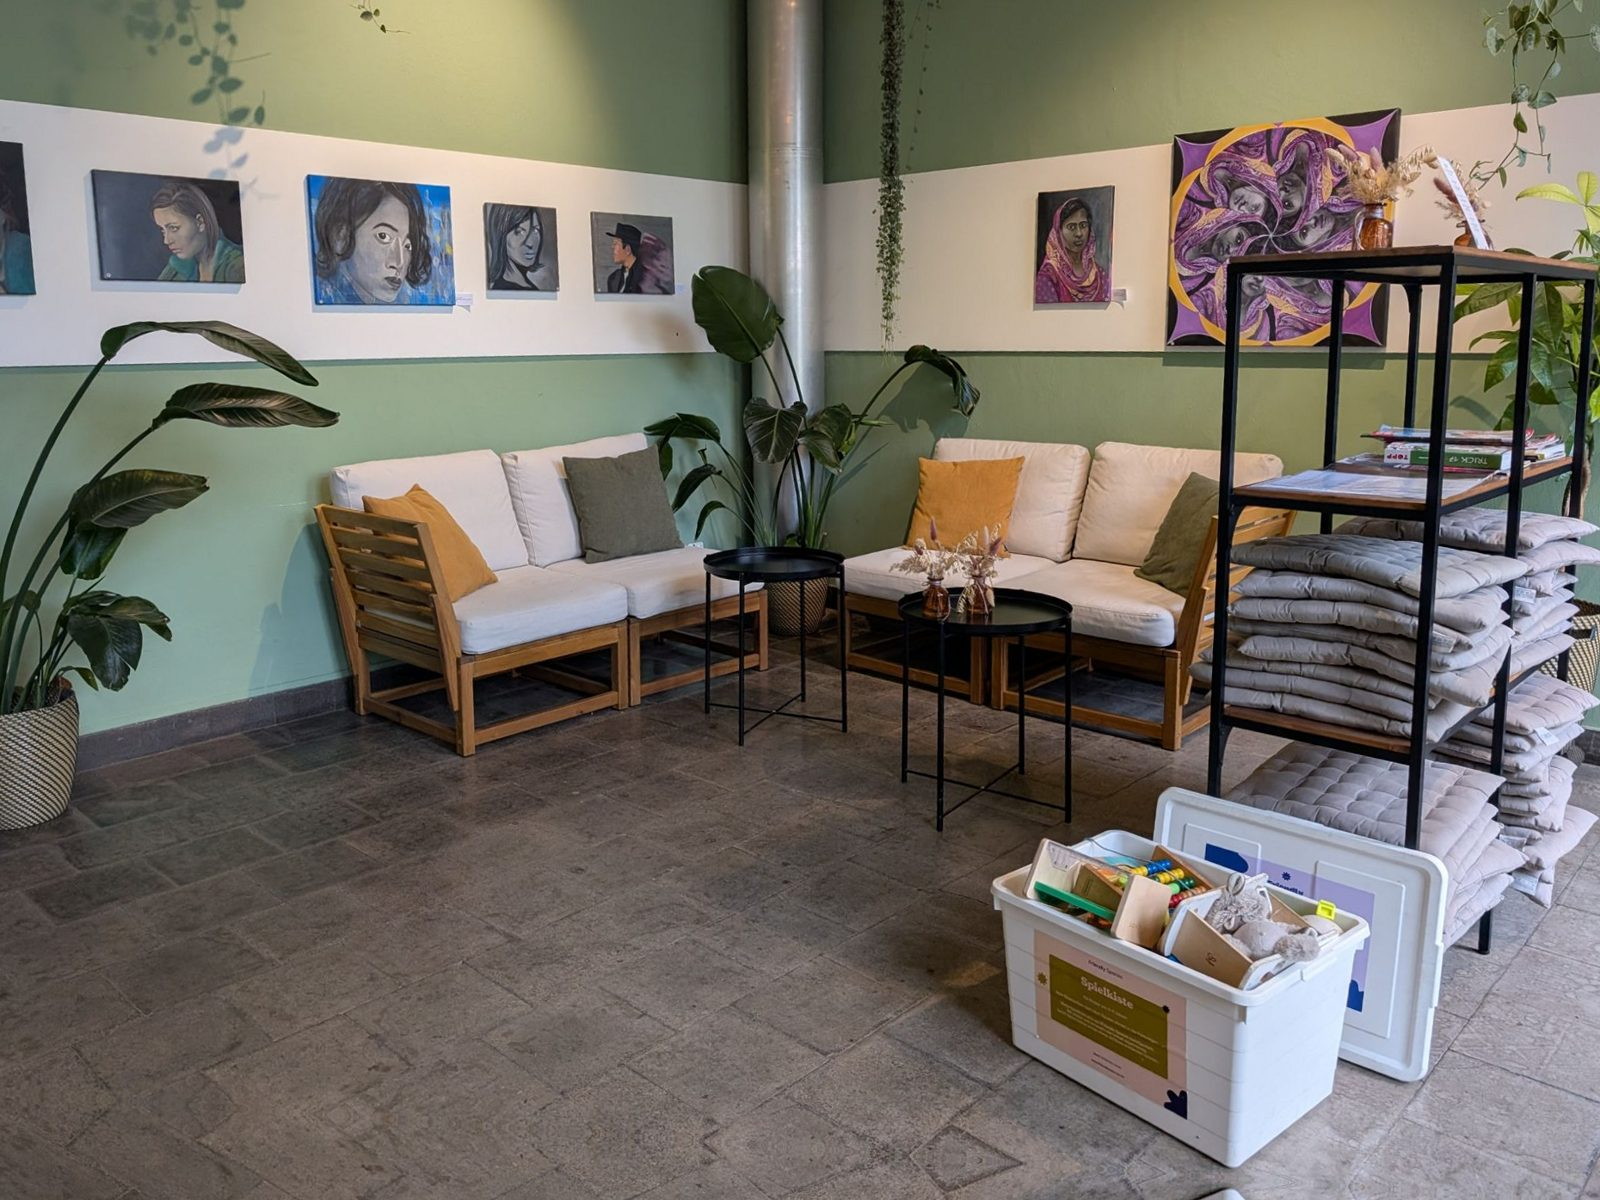
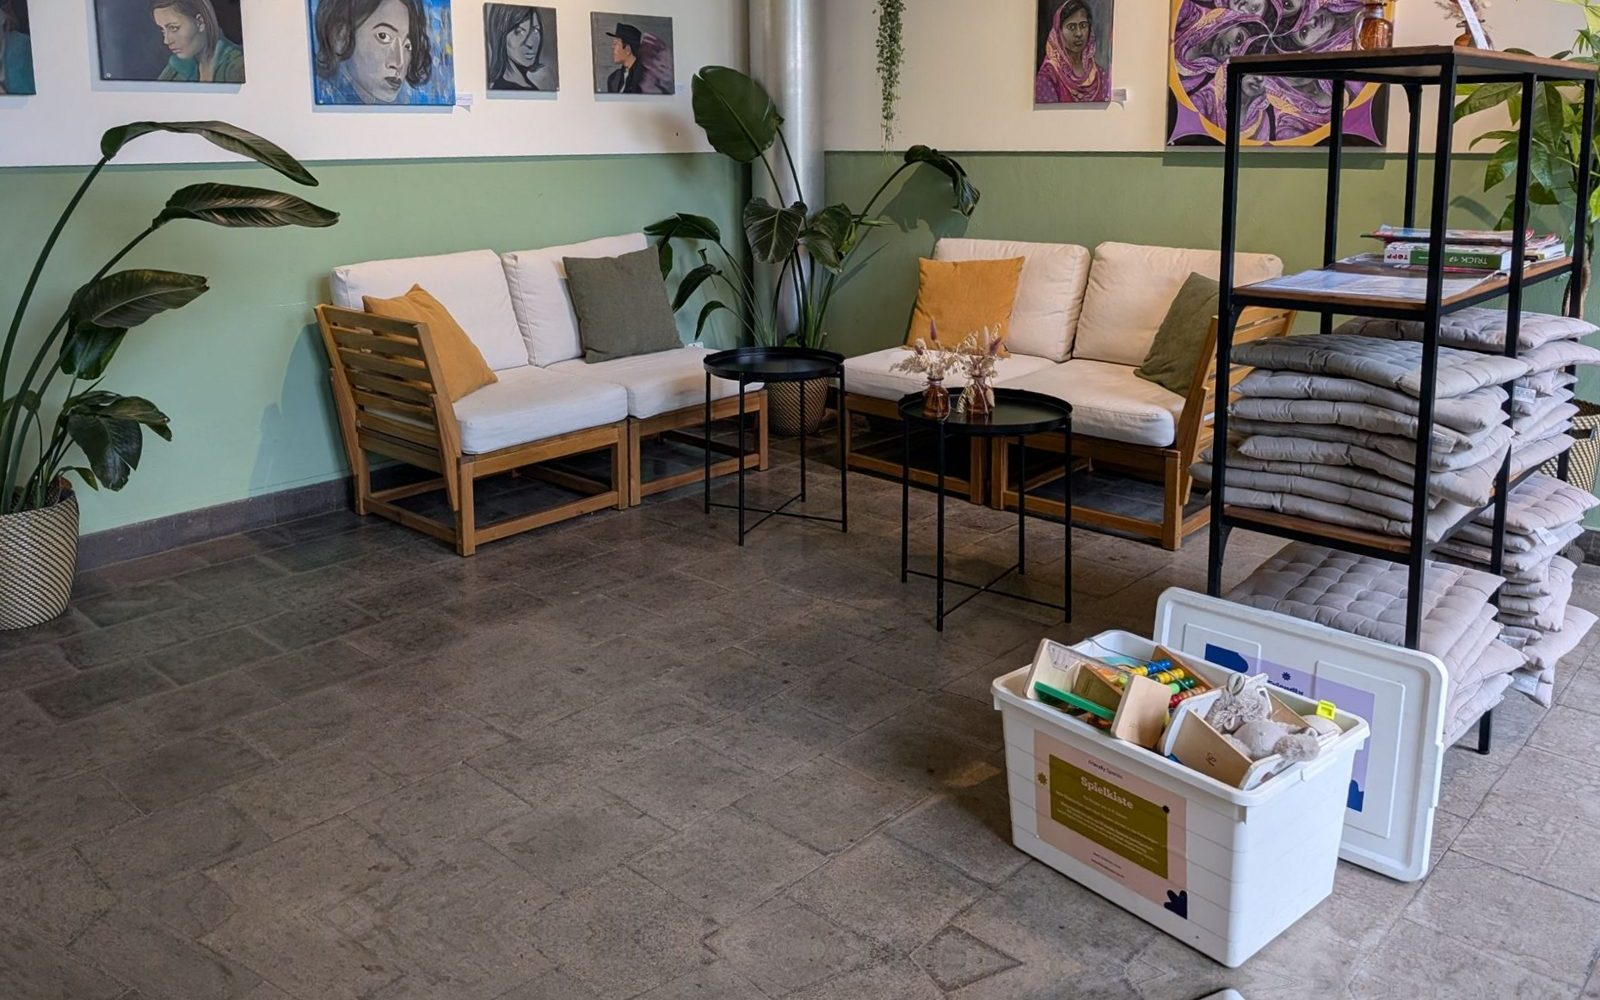
Knocking on doors: Orangerie photo trimmed from the top

diff --git a/src/pages/de/news/knocking-on-doors.html b/src/pages/de/news/knocking-on-doors.html
@@ -34,7 +34,7 @@ nav: news
   <article class="post-body">
     <div class="wrap-narrow">
       <figure>
-        <img src="/assets/img/news/orangerie-lounge-2.jpg" alt="Die Lounge der Orangerie Elfenau in Bern, mit der Friendly Spaces Playbox auf dem Boden" width="1600" height="1200">
+        <img src="/assets/img/news/orangerie-lounge-2.jpg" alt="Die Lounge der Orangerie Elfenau in Bern, mit der Friendly Spaces Playbox auf dem Boden" width="1600" height="1000">
         <figcaption>Orangerie Elfenau in Bern, die erste Tür, die sich öffnete, und die erste Playbox.</figcaption>
       </figure>
       <p>Bis August 2025 war die Idee gut ausgearbeitet, und mir gingen die Gründe aus, sie nicht zu testen. Ich setzte mir ein Ziel: acht bis zehn Orte, genug, um das Konzept zu beweisen. Dann begann ich in Bern an Türen zu klopfen. Die ersten paar blieben geschlossen. Die Besitzerinnen und Besitzer waren höflich, sie waren beschäftigt, und ein familienfreundliches Label von einer Person, von der sie noch nie gehört hatten, stand nicht auf ihrer Liste. Dann klopfte ich an die richtige Tür, die Orangerie Elfenau.</p>

diff --git a/src/pages/fr/news/knocking-on-doors.html b/src/pages/fr/news/knocking-on-doors.html
@@ -34,7 +34,7 @@ nav: news
   <article class="post-body">
     <div class="wrap-narrow">
       <figure>
-        <img src="/assets/img/news/orangerie-lounge-2.jpg" alt="Le salon de l'Orangerie Elfenau à Berne, avec la Playbox Friendly Spaces au sol" width="1600" height="1200">
+        <img src="/assets/img/news/orangerie-lounge-2.jpg" alt="Le salon de l'Orangerie Elfenau à Berne, avec la Playbox Friendly Spaces au sol" width="1600" height="1000">
         <figcaption>Orangerie Elfenau à Berne, la première porte qui s'est ouverte, et la première Playbox.</figcaption>
       </figure>
       <p>En août 2025, l'idée était bien développée et je n'avais plus de raisons de ne pas la tester. Je me suis donné un objectif&nbsp;: huit à dix lieux, assez pour prouver le concept. Puis j'ai commencé à frapper aux portes à Berne. Les premières sont restées fermées. Les propriétaires étaient polis, ils étaient occupés, et un label family-friendly proposé par une personne dont ils n'avaient jamais entendu parler n'était pas sur leur liste. Puis j'ai frappé à la bonne porte, l'Orangerie Elfenau.</p>

diff --git a/de/news/knocking-on-doors.html b/de/news/knocking-on-doors.html
@@ -90,7 +90,7 @@
   <article class="post-body">
     <div class="wrap-narrow">
       <figure>
-        <img src="/assets/img/news/orangerie-lounge-2.jpg" alt="Die Lounge der Orangerie Elfenau in Bern, mit der Friendly Spaces Playbox auf dem Boden" width="1600" height="1200">
+        <img src="/assets/img/news/orangerie-lounge-2.jpg" alt="Die Lounge der Orangerie Elfenau in Bern, mit der Friendly Spaces Playbox auf dem Boden" width="1600" height="1000">
         <figcaption>Orangerie Elfenau in Bern, die erste Tür, die sich öffnete, und die erste Playbox.</figcaption>
       </figure>
       <p>Bis August 2025 war die Idee gut ausgearbeitet, und mir gingen die Gründe aus, sie nicht zu testen. Ich setzte mir ein Ziel: acht bis zehn Orte, genug, um das Konzept zu beweisen. Dann begann ich in Bern an Türen zu klopfen. Die ersten paar blieben geschlossen. Die Besitzerinnen und Besitzer waren höflich, sie waren beschäftigt, und ein familienfreundliches Label von einer Person, von der sie noch nie gehört hatten, stand nicht auf ihrer Liste. Dann klopfte ich an die richtige Tür, die Orangerie Elfenau.</p>

diff --git a/fr/news/knocking-on-doors.html b/fr/news/knocking-on-doors.html
@@ -90,7 +90,7 @@
   <article class="post-body">
     <div class="wrap-narrow">
       <figure>
-        <img src="/assets/img/news/orangerie-lounge-2.jpg" alt="Le salon de l'Orangerie Elfenau à Berne, avec la Playbox Friendly Spaces au sol" width="1600" height="1200">
+        <img src="/assets/img/news/orangerie-lounge-2.jpg" alt="Le salon de l'Orangerie Elfenau à Berne, avec la Playbox Friendly Spaces au sol" width="1600" height="1000">
         <figcaption>Orangerie Elfenau à Berne, la première porte qui s'est ouverte, et la première Playbox.</figcaption>
       </figure>
       <p>En août 2025, l'idée était bien développée et je n'avais plus de raisons de ne pas la tester. Je me suis donné un objectif&nbsp;: huit à dix lieux, assez pour prouver le concept. Puis j'ai commencé à frapper aux portes à Berne. Les premières sont restées fermées. Les propriétaires étaient polis, ils étaient occupés, et un label family-friendly proposé par une personne dont ils n'avaient jamais entendu parler n'était pas sur leur liste. Puis j'ai frappé à la bonne porte, l'Orangerie Elfenau.</p>

diff --git a/src/pages/en/news/knocking-on-doors.html b/src/pages/en/news/knocking-on-doors.html
@@ -33,7 +33,7 @@ nav: news
   <article class="post-body">
     <div class="wrap-narrow">
       <figure>
-        <img src="/assets/img/news/orangerie-lounge-2.jpg" alt="The lounge at Orangerie Elfenau in Bern, with the Friendly Spaces Playbox on the floor" width="1600" height="1200">
+        <img src="/assets/img/news/orangerie-lounge-2.jpg" alt="The lounge at Orangerie Elfenau in Bern, with the Friendly Spaces Playbox on the floor" width="1600" height="1000">
         <figcaption>Orangerie Elfenau in Bern, the first door that opened, and the first Playbox.</figcaption>
       </figure>
       <p>By August 2025 the idea was well developed and I had run out of reasons not to test it. I gave myself a goal: eight to ten places, enough to prove the concept. Then I started knocking on doors in Bern. The first few stayed shut. The owners were polite, they were busy, and a family-friendly label from a person they had never heard of was not on their list. Then I knocked on the right one, the Orangerie Elfenau.</p>

diff --git a/news/knocking-on-doors.html b/news/knocking-on-doors.html
@@ -89,7 +89,7 @@
   <article class="post-body">
     <div class="wrap-narrow">
       <figure>
-        <img src="/assets/img/news/orangerie-lounge-2.jpg" alt="The lounge at Orangerie Elfenau in Bern, with the Friendly Spaces Playbox on the floor" width="1600" height="1200">
+        <img src="/assets/img/news/orangerie-lounge-2.jpg" alt="The lounge at Orangerie Elfenau in Bern, with the Friendly Spaces Playbox on the floor" width="1600" height="1000">
         <figcaption>Orangerie Elfenau in Bern, the first door that opened, and the first Playbox.</figcaption>
       </figure>
       <p>By August 2025 the idea was well developed and I had run out of reasons not to test it. I gave myself a goal: eight to ten places, enough to prove the concept. Then I started knocking on doors in Bern. The first few stayed shut. The owners were polite, they were busy, and a family-friendly label from a person they had never heard of was not on their list. Then I knocked on the right one, the Orangerie Elfenau.</p>
